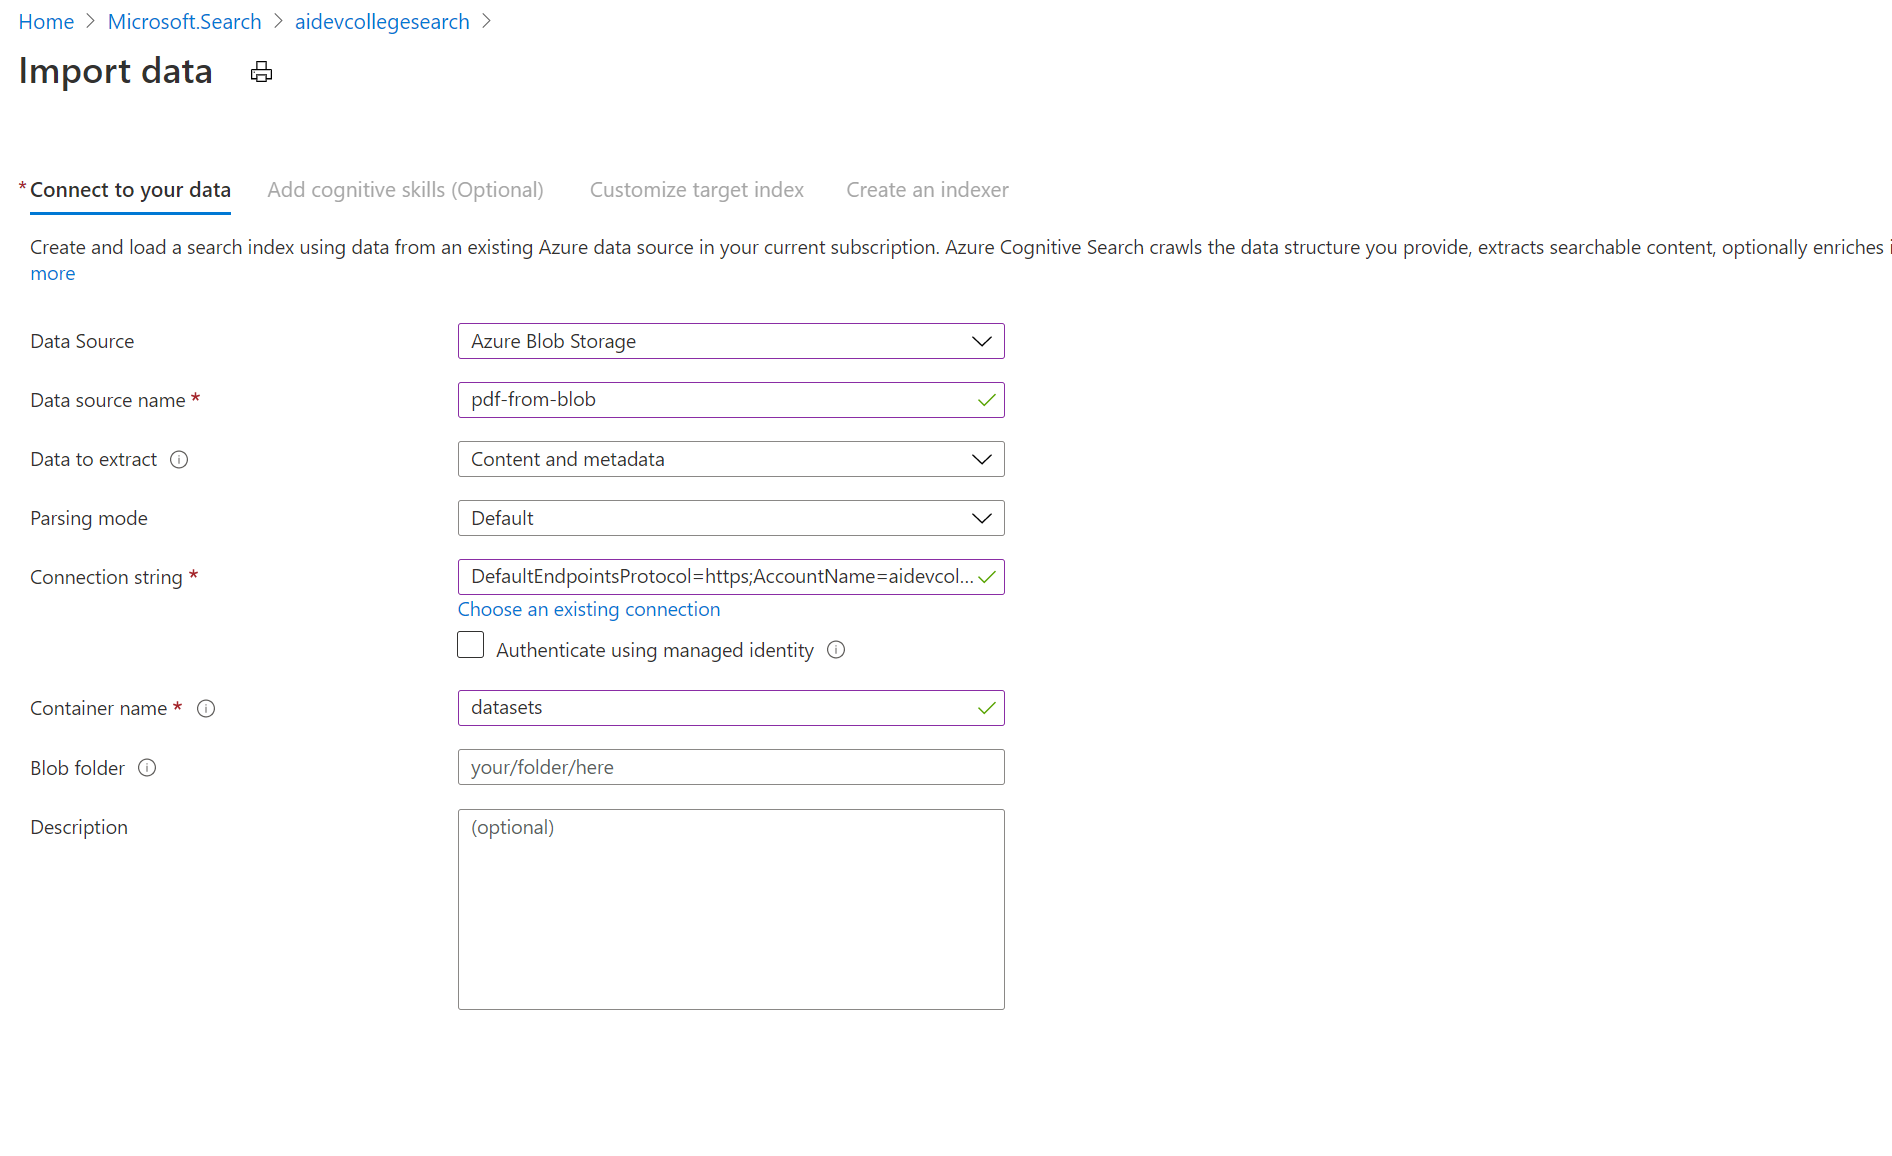
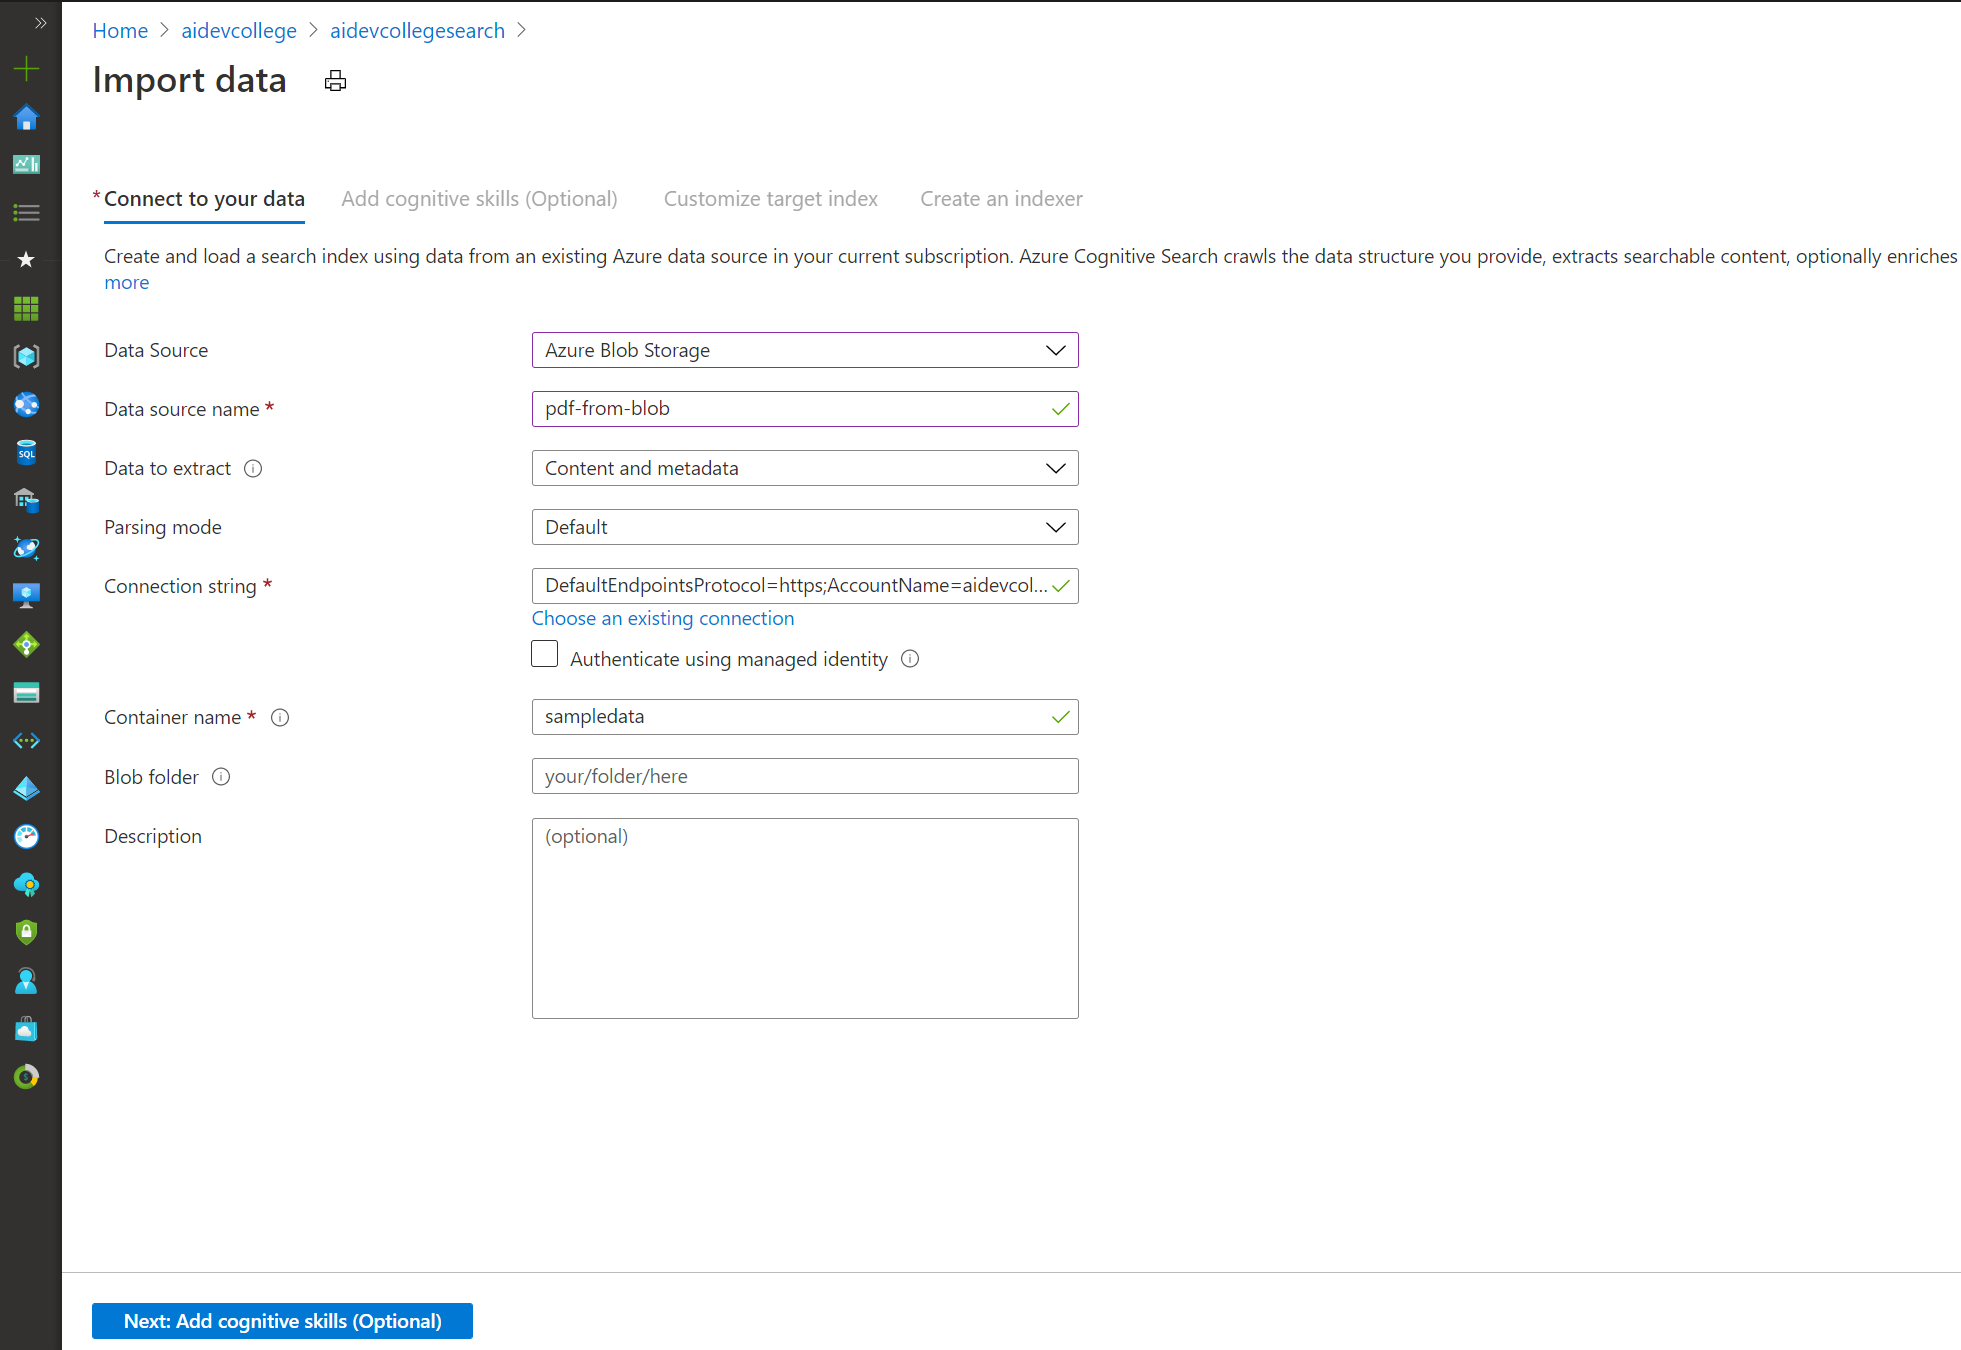
update Cognitive Search content and added images

Changed region(s): [[0.0, 0.0, 1.0, 1.0], [0.2495, 0.2491, 0.5613, 0.7474], [0.4989, 0.5917, 0.5301, 0.6228]]

diff --git a/day2/CognitiveSearch/CognitiveSearch.md b/day2/CognitiveSearch/CognitiveSearch.md
@@ -366,7 +366,6 @@ Please reuse the Azure Search instance which you initially created.
 
 Here we'll upload our data to Blob Storage and let Azure Search index it from there. Hence, we need to create an new `Storage Account` and create a new `Blob container`, where we'll upload our [dataset](https://github.com/aidevcollege/aidevcollege/raw/master/day2/CognitiveSearch/data/search-dataset-pdf.zip) to. We can do this completely through the Azure Portal (**as described below**), use [Storage Explorer](https://azure.microsoft.com/en-us/features/storage-explorer/) or use the API/CLI.
 
-
 **See the upload to the Storage Account below:**
 
 Let's create a **Storage Account** in the **Azure Portal**:
@@ -376,6 +375,11 @@ Let's create a **Storage Account** in the **Azure Portal**:
 Fill in a *unique name* and choose the region *west europe*:
 
 ![Create Storage](./img/CreateStorage2.png)
+
+Then create a Container with the **Public Access Level *Private** (See Screenshot below):
+The Public Access Level specifies whether data in the container may be accessed publicly. By default, container data is private to the account owner. Use 'Blob' to allow public read access for blobs. Use 'Container' to allow public read and list access to the entire container.
+
+![Create Container](./img/CreateContainer.png)
 
 Now we can upload the **unzipped** data to the created Storage Account:
 
@@ -436,11 +440,7 @@ Using double-quotes `"..."` will search for the whole string, rather than each s
 
 If we want to figure out the original file, we can look at: `metadata_storage_path`. Since it is **base64-encoded**, we need to decode it, either via command line or by using e.g., [www.base64decode.org](https://www.base64decode.org/):
 
-```
-https://bootcamps.blob.core.windows.net/datasets/What%20are%20Azure%20Cognitive%20Services.pdf
-```
-
-Perfect, now we know which document contained the term `Content Moderator`.
+Perfect, now we know which [document](https://bootcamps.blob.core.windows.net/datasets/What%20are%20Azure%20Cognitive%20Services.pdf) contained the term `Content Moderator`.
 
 ## Azure Search & Cognitive Search Indexing unstructured content (e.g. images, audio, etc.)
 
